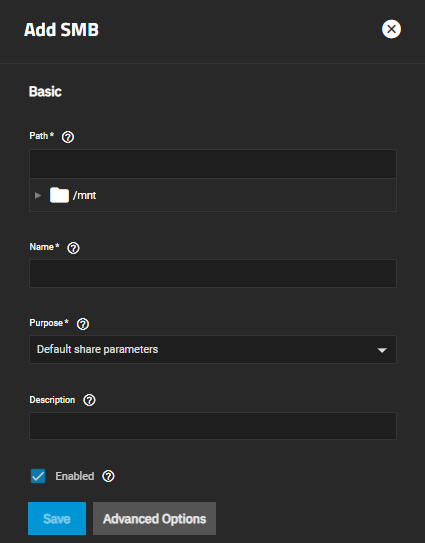
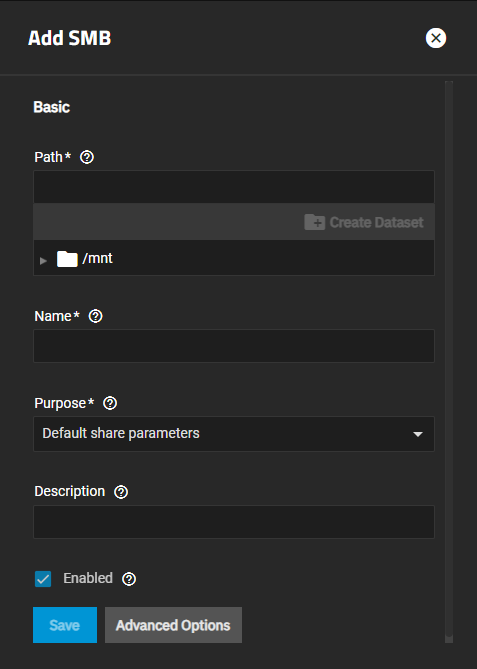
PD-918 Update SMB Screens UI Ref Content
This commit adds new screenshots for the SMBShareScreens.md article and updates the content to reflect the current UI.
It adds the new Audit Logging settings and the new SMB Status screen information.

diff --git a/content/SCALE/SCALEUIReference/Shares/SMBSharesScreens.md b/content/SCALE/SCALEUIReference/Shares/SMBSharesScreens.md
@@ -11,93 +11,86 @@ tags:
 - acl
 ---
 
-The first SMB share screen to display after you click **Shares** is the **Sharing** screen with the service widgets for the four supported share types.
-
 {{< include file="/_includes/SMBShareMSDOSalert.md" >}}
 
-## Sharing SMB Screen
-If you have not added SMB shares to the system, clicking the **Windows (SMB) Shares** option on the **Sharing** screen displays the **No SMB Shares have been configured yet** screen with the **Add SMB Share** button in the center of the screen. 
+## Windows (SMB) Shares Widget
+If you have not added SMB shares to the system, the SMB widget shows **No records have been added yet**. 
 
-![SMBShareScreenNoShare](/images/SCALE/Shares/SMBShareScreenNoShare.png "Add SMB Share Screen")
+{{< trueimage src="/images/SCALE/Shares/WindowsSMBShareWidgetNoShares.png" alt="Add SMB Share" id="Add SMB Share" >}}
 
-Use this button or the **Add** button at the top right of the screen to configure your first SMB share.
-After adding the first SMB share, the **Sharing SMB** screen displays.
+**Add** at the top right of the widget opens the [**Add SMB** screen](#add-and-edit-smb-screens) whert you configure SMB shares.
+After adding an SMB share it displays on the widget.
 
-If you return to the **Share** option (click **Shares** on the main navigation panel), the **Windows (SMB) Shares <span class="material-icons">launch</span>** widget displays. It includes the current service status and a list of the SMB shares below it. 
+{{< trueimage src="/images/SCALE/Shares/WindowsSMBShareWidget.png" alt="Windows (SMB) Share Widget" id="Windows (SMB) Share Widget" >}}
 
-### Windows (SMB) Shares Widget
+Click on **Windows (SMB) Shares <span class="material-icons">launch</span>** to open the [**Sharing > SMB** screen](#sharing-smb-details-screen).
 
-The **Windows (SMB) Shares <span class="material-icons">launch</span>** widget updates after adding SMB shares. It also updates when you click **Shares** on the main navigation panel to return to the **Sharing** screen. 
-
-![SharingSMBServiceStatusScreen](/images/SCALE/Shares/SharingSMBServiceStatusScreen.png "Status of SMB Service Screen")
-
-{{< expand "Click Here for More SMB Shares Widget Information" "v" >}}
-Each SMB share toggle provides quick access to enable or disable the share.
-
-The <span class="material-icons">share</span> Edit Share ACL icon displays the [**Edit Share ACL**](#smb-share-acl-screen) screen.
-
-The <span class="material-icons">security</span> Edit Filesystem ACL icon opens the [**Edit Filesystem ACL**](#edit-filesystem-acl-screen) screen.
-
-Each share also has a <span class="material-icons">delete</span> [delete option](#delete-smb-share-dialog). 
-
-The SMB share row is a link to the [**Edit SMB** screen](#add-and-edit-smb-screens).
-
-#### Windows (SMB) Shares Service Toolbar
+Each SMB share includes a toggle that provides quick access to enable or disable the share, and four icons for different individual share functions:
+* <span class="material-icons">share</span> **Edit Share ACL** icon opens the [**Edit Share ACL**](#edit-share-acl-screen) screen.
+* <span class="material-icons">security</span> **Edit Filesystem ACL** icon opens the [**Edit ACL**](#edit-filesystem-acl-screen) screen.
+* <span class="iconify" data-icon="ic:baseline-edit"></span> edit icon opens the [**Edit ACL** screen](#add-and-edit-smb-screens). 
+* <span class="material-icons">delete</span> oepns the [**Delete** dialog](#delete-smb-share-dialog). 
 
 The **Windows (SMB) Shares <span class="material-icons">launch</span>** toolbar displays the status of the SMB service as either **STOPPED** (red) or **RUNNING** (blue).
 Before adding the first share, the **STOPPED** status displays in the default color.
 
-![SMBServiceStatusAfterFirstShareAdded](/images/SCALE/Shares/SMBServiceStatusAfterFirstShareAdded.png "SMB Service After First Share Added")
+{{< trueimage src="/images/SCALE/Shares/SMBServiceStatusAfterFirstShareAdded.png" alt="SMB Service After Adding a Share" id="SMB Service After Adding a Share" >}}
 
-Both **Windows (SMB) Shares** and **View Details** at the bottom of the widget display the [**Sharing > SMB** details](#sharing-smb-details-screen) screen. 
+Click on the widget header to open the [**Sharing > SMB** details](#sharing-smb-details-screen) screen. 
 
-The **Add** button displays the **[Add SMB](#add-and-edit-smb-screens)** share configuration screen.
+**Add** opens the **[Add SMB](#add-and-edit-smb-screens)** share configuration screen.
 
-The <span class="material-icons">more_vert</span> displays options to turn the SMB service on or off. **Turn Off Service** displays if the service is running, otherwise, **Turn On Service** displays. The **Config Service** option displays the **[System Settings > SMB]({{< relref "SMBServicesScreen.md" >}})** configuration screen. 
+The <span class="material-icons">more_vert</span> displays four options available to SMB shares in general:
+* **Turn Off Service** what shows when the SMB service is enabled and that toggles to **Turn On Service** when the SMB service is disabled.
+* **Config Service** that opens the [**System Settings > SMB**]({{< relref "SMBServicesScreen.md" >}}).
+* **SMB Sessions** that opens the **SMB Status** screen with four tabs: **Sessions**, **Locks**, **Shares**, and **Notifications**.
+* **Audit Logs** that opens the **Audit** screen(add relref to Auditing.md when that PR merges)) with a predefined filter for and showing the SMB share logs.
 
-![SharingSMBOptions](/images/SCALE/Shares/SharingSMBOptions.png "SMB Service Options")
-
-#### Delete SMB Share Dialog
-
+### Delete SMB Share Dialog
 The <span class="material-icons">delete</span> trash can icon displays the **Delete** dialog.
 
-![DeleteSMBShareDialog](/images/SCALE/Shares/DeleteSMBShareDialog.png "Delete SMB Share")
+{{< trueimage src="/images/SCALE/Shares/Shares/DeleteSMBShareDialog.png" alt="Delete SMB Share" id="Delete SMB Shares" >}}
 
 Select **Confirm** to activate the **Delete** button.
-{{< /expand >}}
 
 ## Sharing SMB Details Screen
+The **Sharing >SMB** details screen, lists all SMB shares added to the system.
 
-**Windows SMB Share <span class="material-icons">launch</span>** displays The **Sharing >SMB** details screen. From this screen, you can add or edit an SMB share on the list. 
+{{< trueimage src="/images/SCALE/Shares/Shares/SharingSMBScreen.png" alt="Sharing SMB Screen" id="Sharing SMB Screen" >}}
 
-![SharingSMBScreen](/images/SCALE/Shares/SharingSMBScreen.png "Sharing SMB Screen")
+**Add** opens the **Add SMB** configuration screen.
 
-**Add** displays the **Add SMB** configuration screen.
+**Columns** displays a set of options to customize the list view.
+Options include **Unselect All**, **Path**, **Description**, **Enabled** and **Reset to Defaults**. 
 
-The **Columns** button displays a set of options to customize the list view. Options include **Unselect All**, **Path**, **Description**, **Enabled** and **Reset to Defaults**. 
+**Enabled** indicates whether the share is enabled or disabled. If selected, the share path is available when the SMB service is active.
+If cleared, the share is disabled but not deleted from the system.
 
-The **Enabled** checkbox provides the share status. If selected, it indicates the share path is available when the SMB service is active. If cleared, it disables but does not delete the share.
+The <span class="material-icons">more_vert</span> displays a dropdown list of options for each share: 
+* **[Edit](#add-and-edit-smb-screens)** opens the **Edit SMB** screen. 
+* **[Edit Share ACL](#edit-share-acl-screen)** opens the **Edit Share ACL** screen. 
+* **[Edit Filesystem ACL](#edit-filesystem-acl-screen)** opens the **Edit ACL** screen.
+* **[Delete](#delete-smb-share-dialog)** displays the **Delete** dialog.
 
-The <span class="material-icons">more_vert</span> displays a dropdown list of options for each share. The **[Edit](#add-and-edit-smb-screens)** displays the **Edit SMB** screen, **[Edit Share ACL](#smb-share-acl-screen)** displays the **Edit Share ACL** screen, **[Edit Filesystem ACL](#edit-filesystem-acl-screen)** opens the **Edit Filesystem ACL** screen, and **[Delete](#delete-smb-share-dialog)** displays the **Delete** dialog.
+To return to the **Share** screen, click **Shares** on the main navigation panel or **Sharing** on the breadcrumb at the top of the screen.
 
 ## Add and Edit SMB Screens
+The two SMB share configuration screens, **Add SMB** and **Edit SMB**, display the same setting options.
+The **Create Dataset** option does not show on the **Edit SMB** screen, but you can change to another exisiting dataset on the system.
 
-The two SMB share configuration screens, **Add SMB** and **Edit SMB**, display the same setting options. 
+Click **Save** to create the share (or save an existing one) and add it to the **Windows (SMB) Shares** widget and **Sharing SMB** details screen.
 
-Click **Save** to create the share (or save an existing one) and add it to the **Shares > Windows (SMB) Shares** and **Sharing SMB** details lists.
-
-{{< expand "Basic Options Settings" "v" >}}
 ### Basic Options Settings
+The **Basic Options** settings in this section also display in the **Advanced Options**.
 
-The **Basic Options** settings in this section display on the **Advanced Options** settings screen.
-
-![AddShareBasicOptions](/images/SCALE/Shares/AddShareBasicOptions.png "Add SMB Basic Options")
+{{< trueimage src="/images/SCALE/Shares/Shares/AddShareBasicOptions.png" alt="Add SMB Basic Options" id="Add SMB Basic Options" >}}
 
 {{< truetable >}}
 | Setting | Description |
 |---------|-------------|
 | **Path** | Enter the path or use the <span class="material-icons">arrow_right</span> icon to the left of **<span class="material-icons">folder</span>/mnt** to locate the dataset and populate the path. **Path** is the directory tree on the local file system that TrueNAS exports over the SMB protocol. |
 | **<span class="material-icons">folder</span>/mnt** | Click the <span class="material-icons">arrow_right</span> icon to expand the path at each dataset until you get to the SMB share dataset you want to use. This populates the **Path**. |
+| **Create Dataset** | Click to open the **Create Dataset** dialog which adds a new dataset for the share. Enter a name for the dataset then click **Create**. This populates the **Name** field on the **Add SMB** screen. |
 | **Name** | Enter a name for this share that is less than or equal to 80 characters. Because of how the SMB protocol uses the name, the name must not exceed 80 characters. The name cannot have invalid characters as specified in Microsoft documentation MS-FSCC section 2.1.6. If not supplied, the share name becomes the last component of the path. This forms part of the full share path name when SMB clients perform and SMB tree connect. If you change the name, follow the naming conventions for [files and directories](https://learn.microsoft.com/en-us/windows/win32/fileio/naming-a-file#naming-conventions) or [share names](https://learn.microsoft.com/en-us/openspecs/windows_protocols/ms-fscc/dc9978d7-6299-4c5a-a22d-a039cdc716ea). |
 | **Purpose** | Select a [preset option](#purpose-setting-options) from the dropdown list. The option applies predetermined settings ([presets](#advanced-options-presets)) and disables changing some share setting options. |
 | **Description** | Enter a brief description or notes on how you use this share.  |
@@ -120,18 +113,13 @@ This table details the options found on the **Purpose** dropdown list.
 | **SMB WORM. Files become read-only via SMB after 5 minutes** | The **SMB WORM** preset only impacts writes over the SMB protocol. Before deploying this option in a production environment, the user should determine whether the feature meets their requirements. |
 {{< /truetable >}}
 
-{{< /expand >}}
-
-{{< expand "Advanced Options Settings" "v" >}}
 ### Advanced Options Settings
-
 Click **Advanced Options** to display settings made available or locked based on the option selected in **Purpose**. 
 
 #### Access Settings
+The **Access** settings customize access to the share and files, and also specifying allow or deny access for host names or IP addresses.
 
-The **Access** settings let you customize access to the share and files. They also let you specify allow or deny access for host names or IP addresses.
-
-![AddSMBAdvancedAccessSettings](/images/SCALE/Shares/AddSMBAdvancedAccessSettings.png "Add SMB Advanced Options Access")
+{{< trueimage src="/images/SCALE/Shares/Shares/AddSMBAdvancedAccessSettings.png" alt="SMB Advanced Options Access" id="SMB Advanced Options Access" >}}
 
 {{< truetable >}}
 | Setting | Description |
@@ -139,17 +127,29 @@ The **Access** settings let you customize access to the share and files. They al
 | **Enable ACL** | Select to enable ACL support for the SMB share. A warning displays if you clear this option and the SMB dataset has an ACL, and you are required to strip the ACL from the dataset prior to creating the SMB share. |
 | **Export Read-Only** | Select to prohibit writes to the share. |
 | **Browsable to Network Clients** | Select to determine whether this share name is included when browsing shares. Home shares are only visible to the owner regardless of this setting. Enabled by default. |
-| **Allow Guest Access** | Select to enable. Privileges are the same as the guest account. Guest access is disabled by default in Windows 10 version 1709 and Windows Server version 1903. Additional client-side configuration is required to provide guest access to these clients.<br><br> **MacOS clients**: Attempting to connect as a user that does not exist in FreeNAS *does not* automatically connect as the guest account. You must specifically select the **Connect As: Guest** option in macOS to log in as the guest account. See the [Apple documentation](https://support.apple.com/guide/mac-help/connect-mac-shared-computers-servers-mchlp1140/mac) for more details. |
+| **Allow Guest Access** | Select to enable. Privileges are the same as the guest account. Guest access is disabled by default in Windows 10 version 1709 and Windows Server version 1903. Additional client-side configuration is required to provide guest access to these clients. <br>**MacOS clients**: Attempting to connect as a user that does not exist in FreeNAS *does not* automatically connect as the guest account. You must specifically select the **Connect As: Guest** option in macOS to log in as the guest account. See the [Apple documentation](https://support.apple.com/guide/mac-help/connect-mac-shared-computers-servers-mchlp1140/mac) for more details. |
 | **Access Based Share Enumeration** | Select to restrict share visibility to users with read or write access to the share. See the [smb.conf](https://www.samba.org/samba/docs/current/man-html/smb.conf.5.html) manual page. |
 | **Hosts Allow** | Enter a list of allowed host names or IP addresses. Separate entries by pressing <kbd>Enter</kbd>. You can find a more detailed description with examples [here](https://www.samba.org/samba/docs/current/man-html/smb.conf.5.html#HOSTSALLOW).
 | **Hosts Deny** | Enter a list of denied host names or IP addresses. Separate entries by pressing <kbd>Enter</kbd>. |
 {{< /truetable >}}
 
+#### Audit Logging
+The **Audit Logging** settings enable the auditing function for the SMB share, and allow configuring a watch and ignore list for groups administators want to monitor.
+
+{{< trueimage src="/images/SCALE/Shares/Shares/AddSMBAdvancedAuditLoggingSettings.png" alt="SMB Advanced Advanced Logging" id="SMB Advanced Advanced Logging" >}}
+
+{{< truetable >}}
+| Setting | Description |
+|---------|-------------|
+| **Enabled** | Select to enable audit logging for the SMB share. |
+| **Watch List** | Select groups from the dropdown list that you want to generate audit logging message for. Leaving this blank includes all SMB users with access to the share. If also setting a limit list, when a conflict exists the watch list takes precedence. |
+| **Limit List** | Select groups from the dropdow list that you want to ignore or exclude from audit logging. If a group is a member of both the watch and limit lists, the watch list takes precedence and the group generates audit messages. |
+{{< /truetable >}}
+
 #### Other Settings
+The **Other Options** settings include improving Apple software compatibility, ZFS snapshot features, and other advanced features.
 
-The **Other Options** settings are for improving Apple software compatibility, ZFS snapshot features, and other advanced features.
-
-![AddSMBAdvancedOtherSettings](/images/SCALE/Shares/AddSMBAdvancedOtherSettings.png "Add SMB Advanced Options Other")
+{{< trueimage src="/images/SCALE/Shares/Shares/AddSMBAdvancedOtherSettings.png" alt="SMB Advanced Options Other" id="SMB Advanced Options Other" >}}
 
 {{< truetable >}}
 | Setting | Description |
@@ -161,17 +161,17 @@ The **Other Options** settings are for improving Apple software compatibility, Z
 | **Export Recycle Bin** | Select to enable. Deleted files from the same dataset move to a **Recycle Bin** in that dataset and do not take any additional space. |
 | **Use Apple-style Character Encoding** | Select to convert NTFS illegal characters in the same manner as macOS SMB clients. By default, Samba uses a hashing algorithm for NTFS illegal characters. |
 | **Enable Alternate Data Streams** | Select to allow multiple [NTFS data streams](https://www.ntfs.com/ntfs-multiple.htm). Disabling this option causes macOS to write streams to files on the file system. |
-| **Enable SMB2/3 Durable Handles** | Select to allow using open file handles that can withstand short disconnections. Support for POSIX byte-range locks in Samba is also disabled. We don't recommend this option when configuring multi-protocol or local access to files. |
+| **Enable SMB2/3 Durable Handles** | Select to allow using open file handles that can withstand short disconnections. Support for POSIX byte-range locks in Samba is also disabled. We do not recommend this option when configuring multi-protocol or local access to files. |
 | **Enable FSRVP** | Select to enable support for the File Server Remote VSS Protocol ([FSVRP](https://docs.microsoft.com/en-us/openspecs/windows_protocols/ms-fsrvp/dae107ec-8198-4778-a950-faa7edad125b)). This protocol allows remote procedure call (RPC) clients to manage snapshots for a specific SMB share. The share path must be a dataset mount point. Snapshots have the prefix `fss-` followed by a snapshot creation timestamp. A snapshot must have this prefix for an RPC user to delete it. |
-| **Path Suffix** | Appends a suffix to the share connection path. Use this to provide individualized shares on a per-user, per-computer, or per-IP address basis. Suffixes can contain a macro. See the [smb.conf](https://www.samba.org/samba/docs/current/man-html/smb.conf.5.html) manual page for a list of supported macros. The connect path must be preset before a client connects. |
+| **Path Suffix** | Appends a suffix to the share connection path. Use to provide individualized shares on a per-user, per-computer, or per-IP address basis. Suffixes can contain a macro. See the [smb.conf](https://www.samba.org/samba/docs/current/man-html/smb.conf.5.html) manual page for a list of supported macros. The connect path must be preset before a client connects. |
 {{< /truetable >}}
 
 #### Advanced Options Presets
+The **Purpose** setting you select in the **Basic Options** affects which **Advanced Options** settings (presets) you can select.
+Some presets are available or locked based on your choice. 
+The expandable below provides a comparison table listing these presets and shows whether the option is available or locked.
 
-The **Purpose** setting you select in the **Basic Options** affects which **Advanced Options** settings (presets) you can select. Some presets are available or locked based on your choice. 
-The expandable below provides a comparison table that lists these presets and shows whether the option is available or locked.
-
-{{< nest-expand "What do all the presets do?" "v" >}}
+{{< expand "What do all the presets do?" "v" >}}
 The following table shows the preset options for the different **Purpose** options and if those are locked.      
 A <i class="material-icons" aria-hidden="true" title="System Update">check_box</i> indicates the option is enabled while <i class="material-icons" aria-hidden="true" title="System Update">check_box_outline_blank</i> means the option is disabled. [ ] indicates empty text fields, and [%U] indicates the option the preset created.
 
@@ -195,42 +195,50 @@ A <i class="material-icons" aria-hidden="true" title="System Update">check_box</
 | **Enable FSRVP** | <i class="material-icons" aria-hidden="true">check_box_outline_blank</i> (locked) | <i class="material-icons" aria-hidden="true">check_box_outline_blank</i> | <i class="material-icons" aria-hidden="true">check_box_outline_blank</i> | <i class="material-icons" aria-hidden="true">check_box_outline_blank</i> | <i class="material-icons" aria-hidden="true">check_box_outline_blank</i> |
 | **Path Suffix** | [ ] (locked) | [%U] (locked) | [%U] | [%U] (locked) | [ ] (locked) |
 {{< /truetable >}}
-
 [Back to Advanced Options Settings](#advanced-options-settings)
-{{< /nest-expand >}}
 {{< /expand >}}
 
-## SMB Share ACL Screen
-
-The **SMB Share ACL** screen displays when you click **Edit Share ACL** from the <span class="material-icons">more_vert</span> options list on the [**Sharing SMB** details screen](#sharing-smb-details-screen). 
+## Edit Share ACL Screen
+The **Share ACL for *sharename*** screen opens when you click the <i class="material-icons" aria-hidden="true" title="Share">material-symbols:share</i> **Edit Share ACL** icon on the **Windows (SMB) Shares** widget or the <span class="material-icons">more_vert</span> on the [**Sharing SMB** details screen](#sharing-smb-details-screen). 
 These settings configure new ACL entries for the selected SMB share and apply them at the entire SMB share level. It is separate from file system permissions.
 
-![SMBShareACLScreen](/images/SCALE/Shares/SMBShareACLScreen.png "SMB Share ACL Screen")
-
-{{< expand "ACL Entries Settings" "v" >}}
-### ACL Entries Settings
+{{< trueimage src="/images/SCALE/Shares/Shares/SMBShareACLScreen.png" alt="SMB Share ACL Screen" id="SMB Share ACL Screen" >}}
 
 **ACL Entries** are listed as a block of settings. Click **Add** to add a new entry.
-
 {{< truetable >}}
 | Setting | Description |
 |---------|-------------|
 | **SID** | Shows the SID trustee value (who) this ACL entry (ACE) applies to. SID is a unique value of variable length that identifies the trustee. Shown as a [Windows Security Identifier](https://docs.microsoft.com/en-us/windows/win32/secauthz/security-identifiers). Click **Save** and re-open **Edit Share ACL** to update. |
-| **Who** | Select the domain for account(s) (who) this ACL entry applies to. Options are **User**, **Group**, and **everyone@**. |
-| **User** | Enter or select from the dropdown a user (who) this ACL entry applies to, shown as a user name. Available when **Who** is set to **User**. |
-| **Group** | Enter or select from the dropdown a group (who) this ACL entry applies to, shown as a group name. Available when **Who** is set to **Group**. |
-| **Permission** | Select predefined permission combinations from the dropdown list. Select **FULL** to grant read access, execute permission, write access, delete objects, change permissions, and take ownership (RXWDPO) permissions. Select **CHANGE** to grant read access, execute permission, write access, and delete object (RXWD) permissions.  Select **READ** to grant read access and execute permission on the object (RX). For more details, see [smbacls(1)](https://www.samba.org/samba/docs/current/man-html/smbcacls.1.html). |
-| **Type** | Select the option from the dropdown list that specifies how TrueNAS applies permissions to the share. Select **ALLOWED** to deny all permissions by default, except manually defined permissions. Select **DENIED** to allow all permissions by default, except manually defined permissions. |
+| **Who** | Select the domain for account (who) this ACL entry applies to. Options are:<br><li>**User** - Select to show the **User** field. Enter or select from the dropdown a user (who) this ACL entry applies to, shown as a user name.<br><li>**Group** - Select to show the **Group** field. Enter or select from the dropdown a group (who) this ACL entry applies to, shown as a group name.<br><li>**everyone** - Select to apply the ACL entry to everyone.</li> |
+| **Permission** | Select predefined permission combinations from the dropdown list. Options are:<br><li>**FULL** - Select to grant read access, execute permission, write access, delete objects, change permissions, and take ownership (RXWDPO) permissions.<br><li>**CHANGE** - Select to grant read access, execute permission, write access, and delete object (RXWD) permissions.<br><li>**READ** - Select to grant read access and execute permission on the object (RX). For more details, see [smbacls(1)](https://www.samba.org/samba/docs/current/man-html/smbcacls.1.html).</li> |
+| **Type** | Select the option from the dropdown list that specifies how TrueNAS applies permissions to the share.Options are:<br><li>**ALLOWED** - Select to deny all permissions by default, except manually defined permissions.<br><li>**DENIED** - Select to allow all permissions by default, except manually defined permissions.</li> |
 {{< /truetable >}}
 
 **Save** stores the share ACL and immediately applies it to the share.
-{{< /expand >}}
 
 ## Edit Filesystem ACL Screen
+The **Edit Filesystem ACL** option opens the **Edit ACL** screen for the dataset the share uses.
+See [**Edit ACL Screen]({{< relref "EditACLSCALE.md" >}}) more information on the settings found on this screen.
 
-**Edit Filesystem ACL** opens **Datasets > Edit ACL** screen for the shared dataset. 
+{{< trueimage src="/images/SCALE/Shares/Shares/SMBACLEditor.png" alt="SMB ACL Editor" id="SMB ACL Editor" >}}
 
-![SMBACLEditor](/images/SCALE/Datasets/SMBACLEditor.png "SMB ACL Editor")
+Use the ACL editor screen to set filesystem permissions for the shared dataset.
+See [Permissions]({{< relref "PermissionsScale.md" >}}) for more information on configuring permissions.
 
-The ACL editor screen lets you set permissions for the shared dataset.
-See [Edit ACL Screens]({{< relref "EditACLScreens.md" >}}) or [Permissions]({{< relref "PermissionsScale.md" >}}) for more information on configuring permissions.
+## SMB Status Screens
+You can access the **SMB Status** screen from the **SMB** option on the **System Settings > Services** screen with the <span class="material-icons">ic:baseline-list</span> and from the <span class="material-icons">more_vert</span> on the **Shares > Windows (SMB) Shares** widget.
+
+{{< trueimage src="/images/SCALE/Shares/Shares/SMBStatusScreenSessionsTab.png" alt="SMB Status Sessions Tab" id="SMB Status Sessions Tab" >}}
+
+The **SMB Status** screen has four tabs with information related to SMB shares: 
+* **Sessions** shows current SMB sessions (default view).
+* **Locks** shows locked files.
+* **Shares** shows open files.
+* **Notifications** shows file notification subscriptions.
+
+**Refresh** updates the information displayed on the selected tab.
+
+**Column** displays a dropdown list of options for the selected tab to customize the information included on the screen.
+
+Click **Sharing** or **SBM** on the top breadcrumb to open the selected screen.
+The breadcrumb displays when you access the SMB Status screen from the **System Settings > Services SMB** row.
